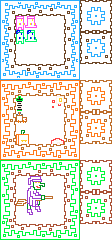
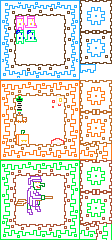
atualização arquivo de texturas

diff --git a/src/Gerenciador/Grafico.cpp b/src/Gerenciador/Grafico.cpp
@@ -8,26 +8,41 @@ using sf::Event;
 using sf::Color;
 using sf::RenderWindow;
 
-#define JOGADOR "assets/imagens/Retro-Lines-16x16/Player.png"
-#define AMBIENTE "assets/imagens/Retro-Lines-16x16/Environment.png"
-#define INIMIGOS "assets/imagens/Retro-Lines-16x16/Enemies.png"
-
 
 CMD::Gerenciador::Grafico::Grafico():
     janela(),
-    imgJogador(),
-    imgChao(),
-    imgInimigos()
+    fonte(),
+    img(),
+    texJogador1(),
+    texJogador2(),
+    texAranhaGigante(),
+    texOlhoVoador(),
+    texBruxa(),
+    texProjetil(),
+    texPlataforma(),
+    texAbobora(),
+    texCogumelo(),
+    texAmbienteRAM(),
+    texAmbienteCPU()
 {
     VideoMode video_mode = VideoMode::getDesktopMode();
     //int estilo_janela = sf::Style::Close; // Barra de título e botão de fechar
     int estilo_janela = sf::Style::Default;
-    janela.create(video_mode, "Jogo", estilo_janela);
+    janela.create(video_mode, NOME_JANELA, estilo_janela);
     janela.clear(Color::Black);
     janela.display();
 
-    inicializarImagens();
-    inicializarTexturas();
+    try {
+        inicializarFontes();
+        inicializarImagens();
+        inicializarTexturas();
+    }
+    catch (const char * arquivo) {
+        std::cout << "Erro: não foi possível carregar: "
+                  << arquivo
+                  << std::endl;
+        fechar();
+    }
 }
 
 CMD::Gerenciador::Grafico::~Grafico(){
@@ -84,10 +99,6 @@ void CMD::Gerenciador::Grafico::fechar() {
     janela.close();
 }
 
-const sf::Image& CMD::Gerenciador::Grafico::getImg() const {
-    return imgs;
-}
-
 const sf::Vector2u CMD::Gerenciador::Grafico::getTamanhoJanela() const {
     return janela.getSize();
 }
@@ -96,33 +107,107 @@ sf::RenderWindow& CMD::Gerenciador::Grafico::getJanela() {
     return janela;
 }
 
+const sf::Image& CMD::Gerenciador::Grafico::getImg() const {
+    return img;
+}
+
 // ==========================================
-// inicializar imagem e texturas
+// inicializar imagem, texturas etc, fazem throw para try catch
+
+void CMD::Gerenciador::Grafico::inicializarFontes() {
+    bool sucesso = fonte.loadFromFile(FONTE);
+    if (!sucesso)
+        throw FONTE;
+}
 
 void CMD::Gerenciador::Grafico::inicializarImagens() {
-    try {
-        bool sucesso = img.
-    }
-    if (!imgJogador.loadFromFile(JOGADOR))
-        std::cerr << "Falha ao abrir " << JOGADOR << std::endl;
-
-    if (!imgChao.loadFromFile(CHAO))
-        std::cerr << "Falha ao abrir " << CHAO << std::endl;
-
-    if (!imgInimigos.loadFromFile(INIMIGOS))
-        std::cerr << "Falha ao abrir " << INIMIGOS << std::endl;
+    bool sucesso = img.loadFromFile(RETRO_LINES);
+    if (!sucesso)
+        throw RETRO_LINES;
 }
 
 void CMD::Gerenciador::Grafico::inicializarTexturas() {
-    if (!texAranhaGigante.loadFromImage(getImgInimigos(), sf::IntRect(3, 184, 12, 8))) {
-        std::cerr << "Erro ao carregar em GG::inicializarTexturas" << std::endl;
-        return;
+    // Jogadores
+    if (!texJogador1.loadFromImage(getImg(), sf::IntRect(16, 16, 9, 14)))
+        throw "Jogador 1";
+    if (!texJogador2.loadFromImage(getImg(), sf::IntRect(16, 30, 9, 14)))
+        throw "Jogador 2";
+
+    // Inimigos
+    if (!texAranhaGigante.loadFromImage(getImg(), sf::IntRect(16, 115, 12, 8)))
+        throw "AranhaGigante";
+    if (!texOlhoVoador.loadFromImage(getImg(), sf::IntRect(52, 96, 12, 12)))
+        throw "OlhoVoador";
+    if (!texBruxa.loadFromImage(getImg(), sf::IntRect(16, 176, 37, 39)))
+        throw "Bruxa";
+
+    // Projétil
+    if (!texProjetil.loadFromImage(getImg(), sf::IntRect(16, 96, 7, 19)))
+        throw "Projétil";
+
+    // Obstáculos
+    if (!texPlataforma.loadFromImage(getImg(), sf::IntRect(80, 64, 16, 9)))
+        throw "Plataforma";
+    if (!texAbobora.loadFromImage(getImg(), sf::IntRect(16, 130, 13, 14)))
+        throw "Abóbora";
+    if (!texCogumelo.loadFromImage(getImg(), sf::IntRect(51, 138, 13, 6)))
+        throw "Cogumelo";
+
+    // Chão, parede etc de ambas fases
+    if (!texAmbienteRAM[0].loadFromImage(getImg(), sf::IntRect(16, 160, 16, 16))     // base cima
+        || !texAmbienteRAM[1].loadFromImage(getImg(), sf::IntRect(80, 224, 16, 16))  // base baixo
+        || !texAmbienteRAM[2].loadFromImage(getImg(), sf::IntRect(0, 176, 16, 16))   // base esq
+        || !texAmbienteRAM[3].loadFromImage(getImg(), sf::IntRect(96, 224, 16, 16))  // base dir
+        || !texAmbienteRAM[4].loadFromImage(getImg(), sf::IntRect(0, 160, 16, 16))   // canto sup esq ext
+        || !texAmbienteRAM[5].loadFromImage(getImg(), sf::IntRect(64, 160, 16, 16))  // canto sup dir ext
+        || !texAmbienteRAM[6].loadFromImage(getImg(), sf::IntRect(0, 224, 16, 16))   // canto inf esq ext
+        || !texAmbienteRAM[7].loadFromImage(getImg(), sf::IntRect(64, 224, 16, 16))  // canto inf dir ext
+        || !texAmbienteRAM[8].loadFromImage(getImg(), sf::IntRect(80, 192, 16, 16))  // canto sup esq int
+        || !texAmbienteRAM[9].loadFromImage(getImg(), sf::IntRect(96, 192, 16, 16))  // canto sup dir int
+        || !texAmbienteRAM[10].loadFromImage(getImg(), sf::IntRect(80, 208, 16, 16)) // canto inf esq int
+        || !texAmbienteRAM[11].loadFromImage(getImg(), sf::IntRect(96, 208, 16, 16)))// canto inf dir int
+    {
+        throw "Ambiente da fase 1";
     }
-    texAranhaGigante.setSmooth(false); // Serve para continuar pixelada quando esticada
+    if (!texAmbienteCPU[0].loadFromImage(getImg(), sf::IntRect(16, 80, 16, 16))      // base cima
+        || !texAmbienteCPU[1].loadFromImage(getImg(), sf::IntRect(80, 144, 16, 16))  // base baixo
+        || !texAmbienteCPU[2].loadFromImage(getImg(), sf::IntRect(0, 96, 16, 16))    // base esq
+        || !texAmbienteCPU[3].loadFromImage(getImg(), sf::IntRect(96, 144, 16, 16))  // base dir
+        || !texAmbienteCPU[4].loadFromImage(getImg(), sf::IntRect(0, 80, 16, 16))    // canto sup esq ext
+        || !texAmbienteCPU[5].loadFromImage(getImg(), sf::IntRect(64, 80, 16, 16))   // canto sup dir ext
+        || !texAmbienteCPU[6].loadFromImage(getImg(), sf::IntRect(0, 144, 16, 16))   // canto inf esq ext
+        || !texAmbienteCPU[7].loadFromImage(getImg(), sf::IntRect(64, 144, 16, 16))  // canto inf dir ext
+        || !texAmbienteCPU[8].loadFromImage(getImg(), sf::IntRect(80, 112, 16, 16))  // canto sup esq int
+        || !texAmbienteCPU[9].loadFromImage(getImg(), sf::IntRect(96, 112, 16, 16))  // canto sup dir int
+        || !texAmbienteCPU[10].loadFromImage(getImg(), sf::IntRect(80, 128, 16, 16)) // canto inf esq int
+        || !texAmbienteCPU[11].loadFromImage(getImg(), sf::IntRect(96, 128, 16, 16)))// canto inf dir int
+    {
+        throw "Ambiente da fase 2";
+    }
+
+    // setSmooth(false) serve para deixar a
+    // imagem pixelada quando aplicado scale
+    texJogador1.setSmooth(false);
+    texJogador2.setSmooth(false);
+    texAranhaGigante.setSmooth(false);
+    texOlhoVoador.setSmooth(false);
+    texBruxa.setSmooth(false);
+    texProjetil.setSmooth(false);
+    texPlataforma.setSmooth(false);
+    texAbobora.setSmooth(false);
+    texCogumelo.setSmooth(false);
+    for (int i = 0; i < TIPOS_TILES_CHAO; i++) {
+        texAmbienteRAM[i].setSmooth(false);
+        texAmbienteCPU[i].setSmooth(false);
+    }
 }
 
 // ==========================================
-// getTex
+// getTex... e getFonte
+
+const sf::Font& CMD::Gerenciador::Grafico::getFonte() const {
+    return fonte;
+}
 
 const sf::Texture& CMD::Gerenciador::Grafico::getTexJogador1() const {
     return texJogador1;
@@ -161,10 +246,16 @@ const sf::Texture& CMD::Gerenciador::Grafico::getTexCogumelo() const {
 }
 
 const sf::Texture& CMD::Gerenciador::Grafico::getTexAmbienteRAM(int canto) const {
-    return texAmbienteRAM[canto];
+    if (canto >= 0 && canto < TIPOS_TILES_CHAO)
+        return texAmbienteRAM[canto];
+    else
+        return texAmbienteRAM[0];
 }
 
 const sf::Texture& CMD::Gerenciador::Grafico::getTexAmbienteCPU(int canto) const {
-    return texAmbienteCPU[canto];
+    if (canto >= 0 && canto < TIPOS_TILES_CHAO)
+        return texAmbienteCPU[canto];
+    else
+        return texAmbienteCPU[0];
 }
 

diff --git a/src/Gerenciador/Grafico.h b/src/Gerenciador/Grafico.h
@@ -2,8 +2,13 @@
 
 #include <SFML/Graphics.hpp> // inclui sf::RenderWindow
 
+#define NOME_JANELA "Caos Mágico Digital"
+
 #define FONTE "assets/fontes/monogram/monogram-extended.ttf"
 #define GATO "assets/imagens/blanche100x100.png"
+#define RETRO_LINES "assets/imagens/retro-lines.png"
+
+#define TIPOS_TILES_CHAO 12
 
 namespace CMD
 {
@@ -13,6 +18,7 @@ namespace CMD
         {
         private:
             sf::RenderWindow janela;
+            sf::Font fonte;
             sf::Image img;
             sf::Texture texJogador1;//[2];
             sf::Texture texJogador2;//[2];
@@ -20,11 +26,11 @@ namespace CMD
             sf::Texture texOlhoVoador;
             sf::Texture texBruxa;
             sf::Texture texProjetil;
-            sf::Texture texPlataforma;//[3];
+            sf::Texture texPlataforma;
             sf::Texture texAbobora;
             sf::Texture texCogumelo;
-            sf::Texture texAmbienteRAM[12];
-            sf::Texture texAmbienteCPU[12];
+            sf::Texture texAmbienteRAM[TIPOS_TILES_CHAO];
+            sf::Texture texAmbienteCPU[TIPOS_TILES_CHAO];
 
         public:
             Grafico();
@@ -53,9 +59,11 @@ namespace CMD
             const sf::Texture& getTexCogumelo() const;
             const sf::Texture& getTexAmbienteRAM(int canto) const;
             const sf::Texture& getTexAmbienteCPU(int canto) const;
+            const sf::Font& getFonte() const;
 
         private:
             const sf::Image& getImg() const;
+            void inicializarFontes();
             void inicializarImagens();
             void inicializarTexturas();
         };

diff --git a/src/Entidades/Personagem/Jogador.cpp b/src/Entidades/Personagem/Jogador.cpp
@@ -2,6 +2,7 @@
 
 #include "Inimigo.h"
 #include "../../Gerenciador/Tempo.h"
+#include "../../Gerenciador/Grafico.h"
 
 #include <SFML/Window/Keyboard.hpp>
 #include <cmath> // std::abs e trigonométricas
@@ -11,7 +12,16 @@ using sf::Vector2f;
 using std::cerr;
 using std::endl;
 
-CMD::Entidades::Personagens::Jogador::Jogador():Personagem(),pontos(0)
+CMD::Entidades::Personagens::Jogador::Jogador():
+    Jogador(1, sf::String(""))
+{
+}
+
+CMD::Entidades::Personagens::Jogador::Jogador(int jogadorX, sf::String texto):
+    Personagem(),
+    pontos(0),
+    jogador(jogadorX),
+    nome(texto, pGG->getFonte(), 20)
 {
 }
 
@@ -73,22 +83,22 @@ void CMD::Entidades::Personagens::Jogador::mover() {
             dv.x += 800.;
         velocidade += dv;
         if(esta_no_chao){
-            velocidade.x *= 0.85f; 
-            
+            velocidade.x *= 0.85f;
+
             if (std::abs(velocidade.x) > 400.f) {
-                
+
                 if(velocidade.x > 0)
                     velocidade.x = 400.f;
                 else
                     velocidade.x = -400.f;
                 }
-                
-                if (std::abs(velocidade.x) < 1.f) 
+
+                if (std::abs(velocidade.x) < 1.f)
                         velocidade.x = 0.f;
         }
         else {
             velocidade.x *= 0.98f;
-        
+
             if (std::abs(velocidade.x) > 500.f) {
                 if(velocidade.x > 0)
                         velocidade.x = 500.f;

diff --git a/src/Entidades/Personagem/Jogador.h b/src/Entidades/Personagem/Jogador.h
@@ -2,6 +2,8 @@
 
 #include "Personagem.h"
 
+#include <SFML/Graphics/Text.hpp>
+
 namespace CMD
 {
     namespace Entidades {
@@ -11,8 +13,11 @@ namespace CMD
             {
             protected:
                 int pontos;
+                int jogador;
+                sf::Text nome;
             public:
                 Jogador();
+                Jogador(int jogadorX, sf::String texto);
                 ~Jogador();
                 bool colidir(Personagens::Inimigo* pIn);
                 void executar();

diff --git a/src/Jogo.cpp b/src/Jogo.cpp
@@ -34,7 +34,7 @@ CMD::Jogo::Jogo():
     }
     cout << "Success to load texture" << endl;
     texture.setSmooth(true);
-    sprite.setTexture(texture);
+    sprite.setTexture(GG.getTexJogador1());
     sprite2.setTexture(texture);
     sprite3.setTexture(texture);
     sprite2.setPosition(100,100);
